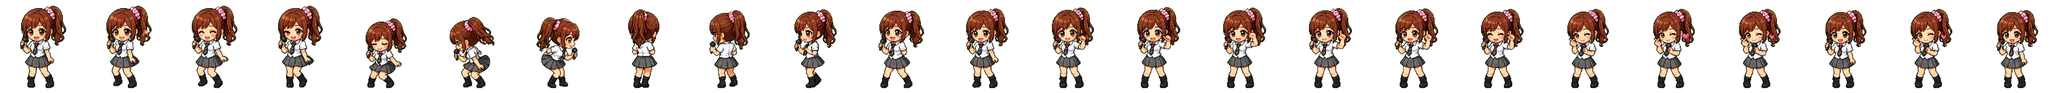
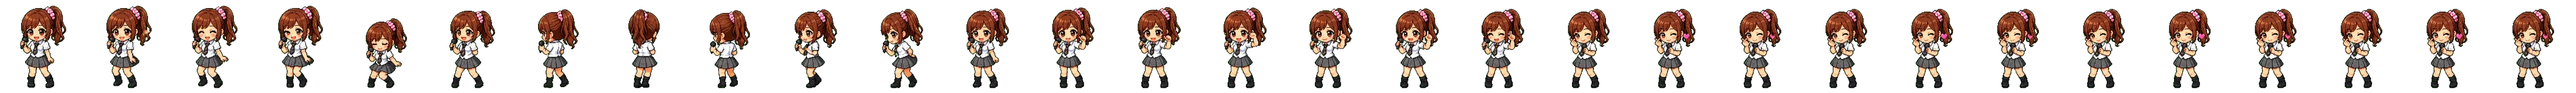
feat:#功能修复

diff --git a/src/renderer/styles/pet-copilot.css b/src/renderer/styles/pet-copilot.css
@@ -222,7 +222,7 @@ body.desktop-pet-body,
   width: 96px;
   height: 104px;
   background-repeat: no-repeat;
-  background-size: 2304px 104px;
+  background-size: 2880px 104px;
   background-position: 0 0;
   transform-origin: 50% 86%;
   will-change: background-position;
@@ -245,7 +245,7 @@ body.desktop-pet-body,
 }
 
 .desktop-pet-root.has-dance-animation .desktop-pet-dance-sprite {
-  animation: desktop-pet-idol-pony-dance-frames 4600ms steps(24, end) 1 both;
+  animation: desktop-pet-idol-pony-dance-frames 5200ms steps(30, end) 1 both;
   filter:
     drop-shadow(0 18px 24px rgba(18, 44, 91, 0.2))
     drop-shadow(0 0 12px rgba(255, 76, 126, 0.16));
@@ -623,7 +623,7 @@ body.desktop-pet-body,
 
 @keyframes desktop-pet-idol-pony-dance-frames {
   to {
-    background-position: -2304px 0;
+    background-position: -2880px 0;
   }
 }
 

diff --git a/src/renderer/copilot/pet-copilot/DesktopPet.tsx b/src/renderer/copilot/pet-copilot/DesktopPet.tsx
@@ -124,7 +124,7 @@ type DesktopPetVisualStatus =
   | "dancing";
 
 const DESKTOP_PET_DANCE_DURATION_MS = 3000;
-const DESKTOP_PET_IDOL_PONY_DANCE_DURATION_MS = 4600;
+const DESKTOP_PET_IDOL_PONY_DANCE_DURATION_MS = 5200;
 const DESKTOP_PET_DRAG_DIRECTION_THRESHOLD_PX = 3;
 const DESKTOP_PET_IMAGE_HIT_MARGIN = 8;
 
